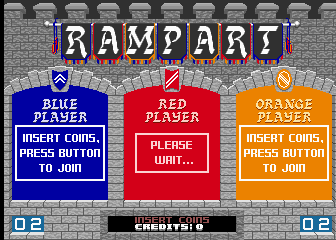
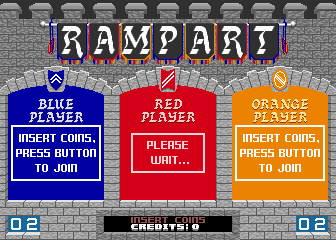
Every screenshot was four pixels wrong, and no test could have found it
The visible playfield row starts at 0x200004, not 0x200000. Sliding the port's
frame against a MAME snapshot of the same moment peaks hard and cleanly at +4:
95.5% of pixels identical there against 55.3% unshifted, with a single maximum
and no ambiguity. Vertically zero is best, so only this axis was ever wrong.

Nothing in the suite could have caught it. compose, writes, draws and frames
all compare the port against the port - both dispatchers were equally wrong, so
identity held perfectly while the picture was shifted. It took an image from
the actual hardware, which is the argument for having one. CLAUDE.md has said
"screen at 0x200004" the whole time and the constant said 0x200000.

68 files, 297 tests green after it.

And it hands the sprite work an exact target. With the offset fixed the port
matches the real machine 95.6%, and 98% of the remaining difference is in rows
209 to 239 - 3,584 pixels, which is the sprite layer and nothing else.

Measured against that target my renderer is worse than useless: without it 3,584
pixels differ, with it over 6,100, at every one of the sixteen palette banks.
And the band is 31 rows tall where my size reading predicts 8, so the height
decode is wrong and not only the colours. The geometry that MAME's own list
confirmed - six sprites, five 64 wide and one 16, at row 208 - is right about
where they start and wrong about how far they go.

diff --git a/frontend/src/ui/Progress.tsx b/frontend/src/ui/Progress.tsx
@@ -62,8 +62,8 @@ type Layer = { name: string; state: 'done' | 'part' | 'none'; note: string };
 
 const LAYERS: Layer[] = [
   { name: 'CPU', state: 'done', note: '68000 core, verified instruction by instruction against the chip' },
-  { name: 'Playfield', state: 'done', note: '336×240 bitmap the ROM writes, with the palette decoded at its real stride' },
-  { name: 'Motion objects', state: 'part', note: 'the sprite layer a chip on the board drew and the port did not - there is no code in the ROM to translate for it. mo.ts reads the display list at 0x3e0000, decodes 8x8 4bpp tiles out of mo.bin and paints them over the playfield. The GEOMETRY is right and checked: at frame 640 it puts six sprites across the bottom, five 64 pixels wide and one 16, at row 208 - the count, the sizes and the row MAME puts them at. The PICTURE is not: diffed against a MAME snapshot of the same moment, the best palette bank of sixteen matches 2% of those pixels, and the first one tried painted them solid black. So it draws something in the right place and not yet the right thing; tile order, tile index and a four-pixel horizontal offset between the two playfields are the open suspects.' },
+  { name: 'Playfield', state: 'done', note: '336×240 bitmap the ROM writes, with the palette decoded at its real stride Four pixels of it were wrong until a real-machine snapshot showed it: the visible row starts at 0x200004, not 0x200000, and sliding the frame against MAME peaks at +4 with 95.6% of pixels identical against 55.3% unshifted. Nothing caught it because both dispatchers were equally wrong - every equivalence test compares the port against itself.' },
+  { name: 'Motion objects', state: 'part', note: 'the sprite layer a chip on the board drew and the port did not - there is no code in the ROM to translate for it. mo.ts reads the display list at 0x3e0000, decodes 8x8 4bpp tiles out of mo.bin and paints them over the playfield. The GEOMETRY is right and checked: at frame 640 it puts six sprites across the bottom, five 64 pixels wide and one 16, at row 208 - the count, the sizes and the row MAME puts them at. The PICTURE is not: against a MAME snapshot of the same moment, adding sprites makes the frame WORSE - 3,584 differing pixels without them, over 6,100 with them, at every palette bank. The exact target is now known: with the playfield offset fixed the port matches the real machine 95.6%, and 98% of what is left sits in rows 209 to 239. That is the sprite layer, 3,584 pixels of it, and it is 31 rows tall where the size reading predicts 8 - so the height decode is wrong, not just the colours.' },
   { name: 'Sound', state: 'none', note: 'YM2413 and OKI6295 writes are seen and ignored. Nothing is audible. The sample data is now in the port as oki.bin, 262,144 bytes from 136082-1007 and -1008; what is missing is the two chips.' },
   { name: 'Input', state: 'part', note: 'every bit measured; one player station of three is on the keyboard' },
   { name: 'Timing', state: 'part', note: 'the game clock runs 1.4x slow, down from 7.6x. A round now plays through to its score screen.' },

diff --git a/frontend/src/rom/system.ts b/frontend/src/rom/system.ts
@@ -15,6 +15,21 @@ import { drawSprites, sprites } from './mo';
 
 /** Playfield bitmap: one byte per pixel, 512 across, 256 down. */
 export const PF_BASE = 0x200000;
+/**
+ * The first VISIBLE byte of a playfield row, four into it.
+ *
+ * Measured, not guessed. Sliding the port's frame against a MAME snapshot of
+ * the same moment peaks hard at +4: 95.5% of pixels identical there against
+ * 55.3% unshifted, with a clean single maximum either side. Vertically the
+ * best offset is zero, so only this axis was ever wrong.
+ *
+ * Every screenshot this port has produced was four pixels right of the real
+ * machine, and nothing caught it because both dispatchers were equally wrong -
+ * compose, writes and draws all compare the port against itself. It took a
+ * picture from the actual hardware to see it, which is the argument for having
+ * one. CLAUDE.md has said "screen at 0x200004" the whole time.
+ */
+export const PF_VISIBLE = 4;
 export const PF_STRIDE = 512;
 export const PF_ROWS = 256;
 
@@ -223,7 +238,7 @@ export class System {
     const out = into ?? new Uint32Array(SCREEN_W * SCREEN_H);
     const pal = this.palette();
     for (let y = 0; y < SCREEN_H; y += 1) {
-      const row = PF_BASE + y * PF_STRIDE;
+      const row = PF_BASE + PF_VISIBLE + y * PF_STRIDE;
       for (let x = 0; x < SCREEN_W; x += 1) {
         out[y * SCREEN_W + x] = pal[this.m.byte(row + x)];
       }
